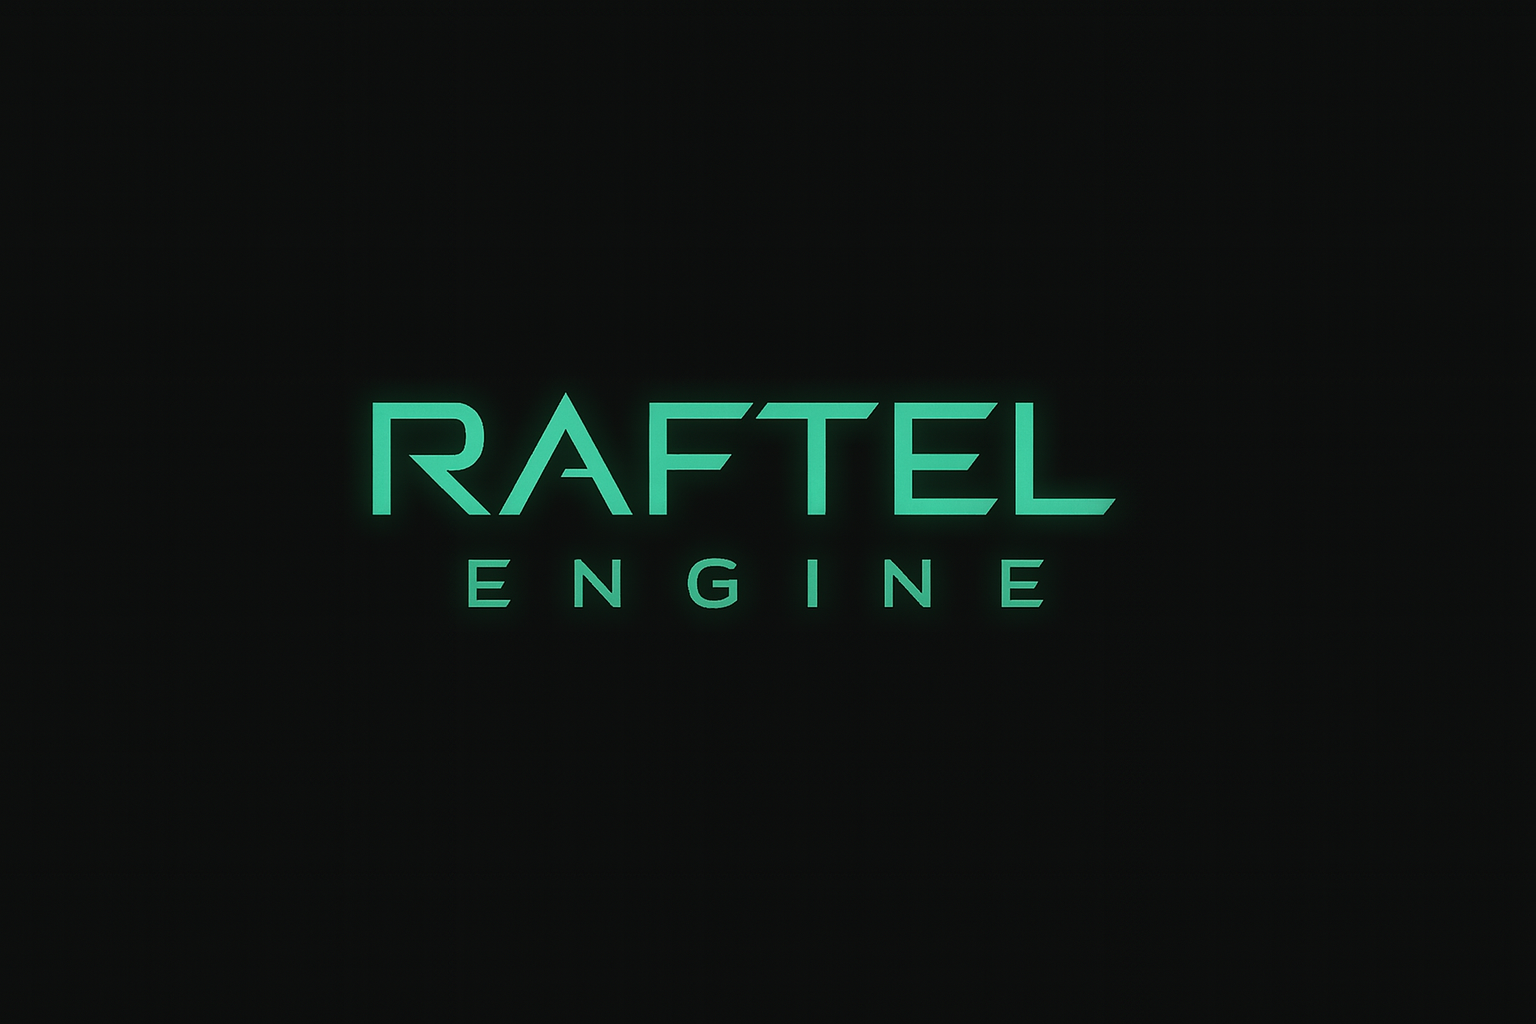
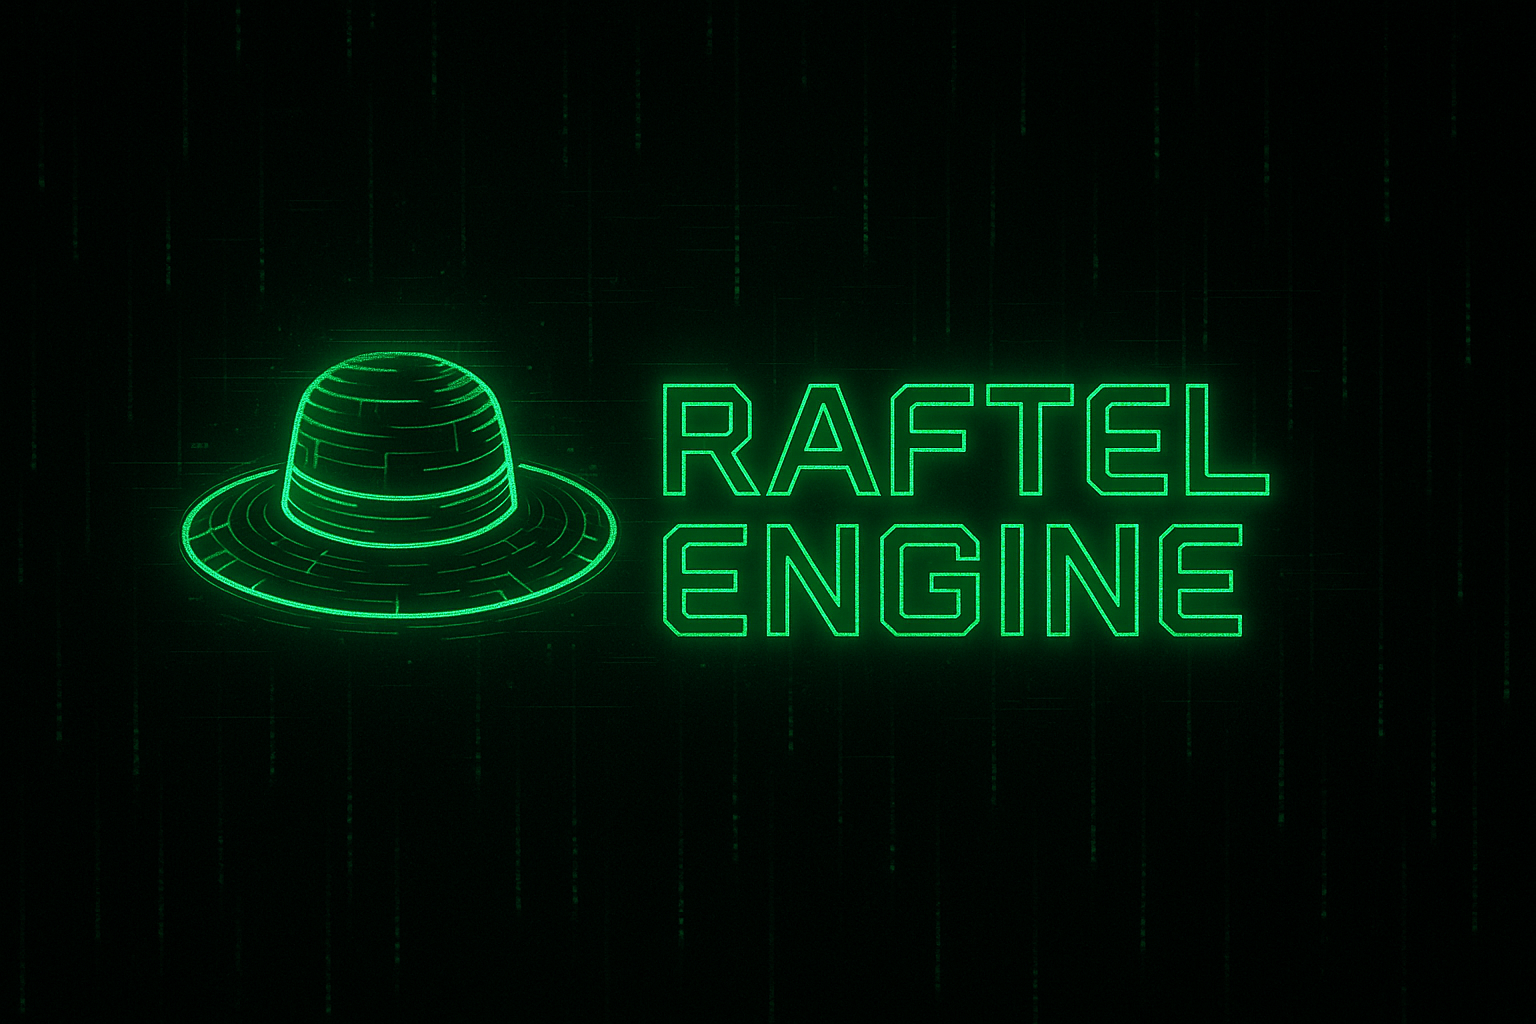
act things

Changed region(s): [[0.0938, 0.3125, 0.8438, 0.6562]]

diff --git a/index.html b/index.html
@@ -3,7 +3,8 @@
 <head>
     <meta charset="UTF-8" />
     <meta name="viewport" content="width=device-width, initial-scale=1.0" />
-    <title>Marc Folgado - Game Programmer</title>
+    <title>Marc's Portfolio</title>
+    <link rel="icon" type="image/png" href="img/icon.png" />
     <link rel="stylesheet" href="style.css" />
 </head>
 <body>
@@ -90,9 +91,9 @@
             <div>
                 <h3>Tiris</h3>
                 <p>
-                    Tiris is a dark-themed top-down shooter created at Cremaet Studios.
-                    It features enemy AI, item pickup and drop systems, Steam achievements,
-                    and UI elements like tutorial boxes and intro videos.
+                    Infiltrate in Tiris Cathedral and recover your beloved's soul in this medieval, lowdark fantasy Top-Down Shooter. 
+                    Deal with hordes of enemies, solve the puzzles that block your path, 
+                    and free your loved one and the people from the tyranny of the Necromancer and his commanders.
                 </p>
             </div>
         </div>
@@ -199,7 +200,7 @@
         <button class="return-btn">← Return</button>
 
         <div class="details-header">
-            <img src="images/raftel-cover.jpg" alt="Raftel Engine Cover" />
+            <img src="img/RaftelCover.png" alt="Raftel Engine Cover" />
             <div>
                 <h3>Raftel Engine</h3>
                 <p>
